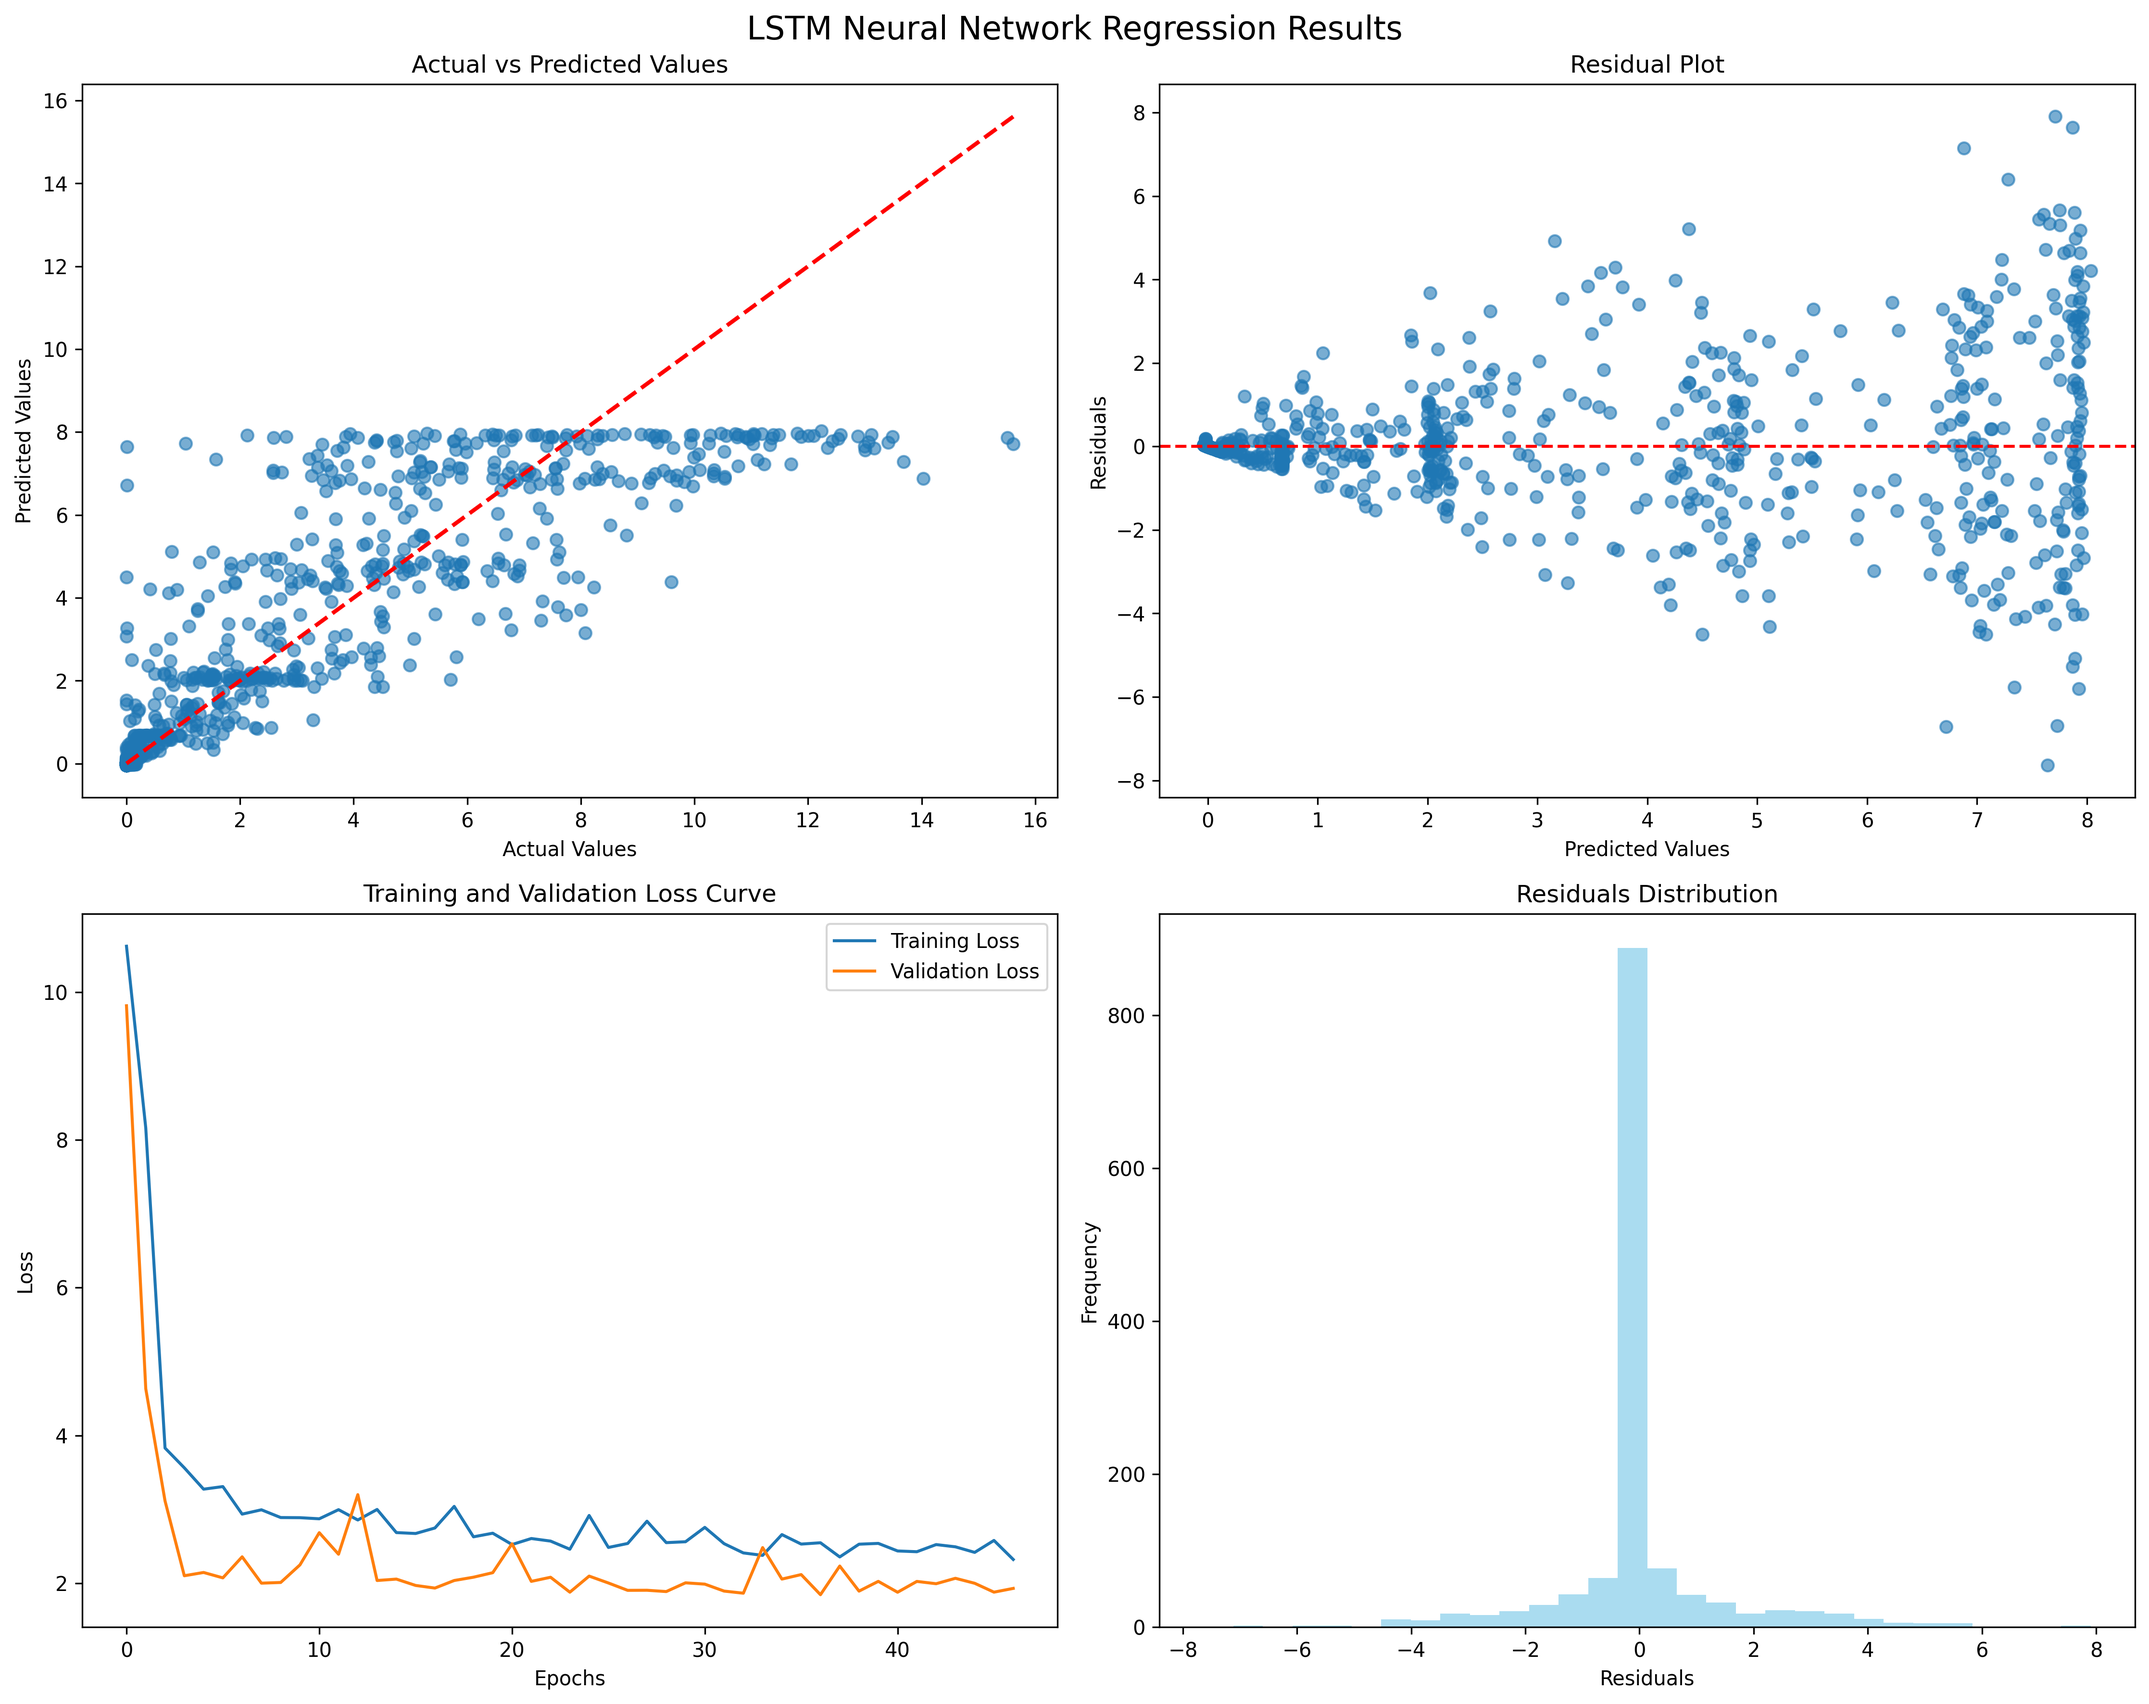
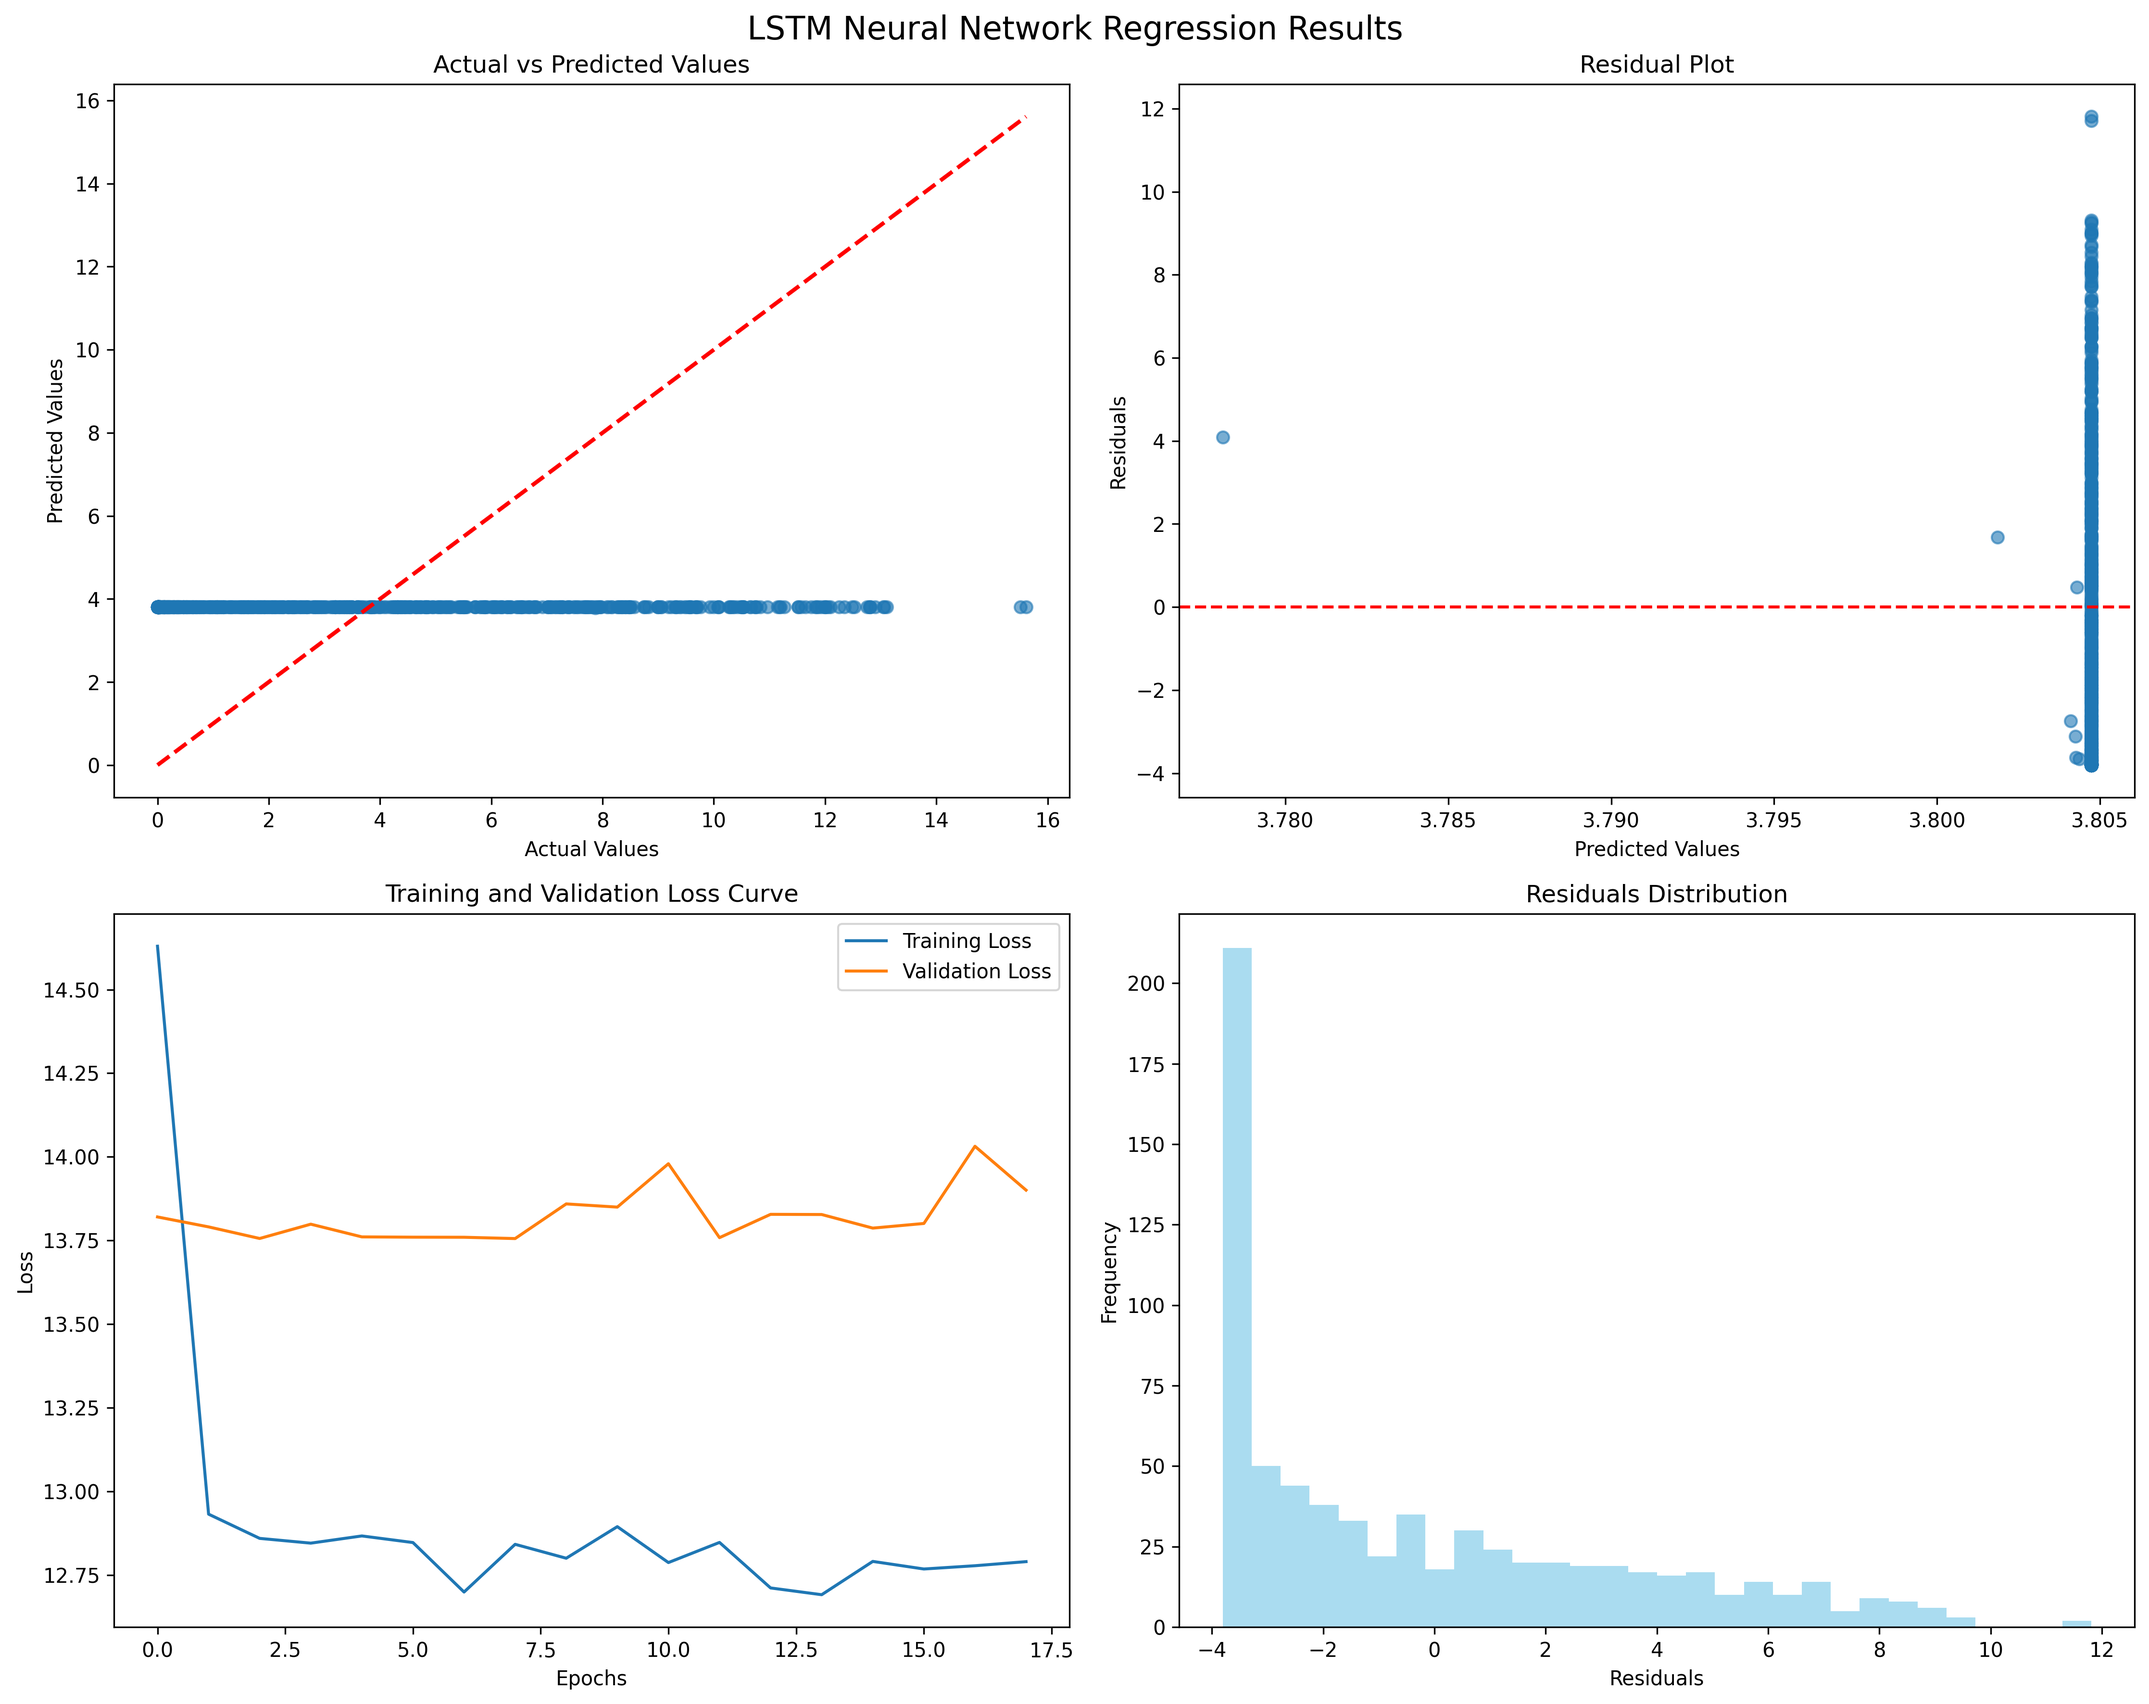
minor fixes

diff --git a/compare.py b/compare.py
@@ -15,6 +15,7 @@ from models import (
   handle_datetime,
   handle_rainfall,
   handle_window,
+  handle_uv,
 )
 
 
@@ -76,8 +77,8 @@ def run_lstm_model(X_train, X_test, y_train, y_test, skip=False):
 
   print("\n=== LSTM ===")
   features = int(X_train.shape[2])
-  model = LSTMModel(features, window_size=24)
-  model.train(X_train, y_train, epochs=100)
+  model = LSTMModel(features, window_size=12)
+  model.train(X_train, y_train, epochs=50)
   model.evaluate(X_test, y_test)
   model.plot_results(X_test, y_test)
 
@@ -113,10 +114,10 @@ def main():
     "SO2UGM3",
   ]
 
-  # df = handle_datetime(df)
-  df = handle_datetime(df, date_index=True)  # for sarima
+  df = handle_datetime(df)
+  # df = handle_datetime(df, date_index=True)  # for sarima
   df = handle_rainfall(df)
-  # df = handle_uv(df)  # remove where uv_index is 0
+  df = handle_uv(df)  # remove where uv_index is 0
 
   print("\n=== Data engineering dataset ===")
   print(df.head())
@@ -124,14 +125,10 @@ def main():
   X = df.drop(columns=[target_column], axis=1)
   y = df[target_column]
 
-  # X_train, X_test, y_train, y_test = train_test_split(X, y, test_size=0.2, random_state=28)
-  
+  X_train, X_test, y_train, y_test = train_test_split(X, y, test_size=0.2, random_state=28)
+
   fit_scaler(X[numerical_features])
   X[numerical_features] = transform_scaler(X[numerical_features])
-
-  X_series = handle_window(X, window_size=24) # only for ltsm
-  y_series = handle_window(df, window_size=24, target_col=target_column) # only for ltsm
-  X_train, X_test, y_train, y_test = train_test_split(X_series, y_series, test_size=0.2, random_state=28)
 
   y_series = handle_window(y)  # for dbscan
   y_series_scaled = StandardScaler().fit_transform(y_series)  # for dbscan
@@ -143,6 +140,12 @@ def main():
   # Predictive models
   run_random_forest_model(X_train, X_test, y_train, y_test, skip=True)
   run_svm_model(X_train, X_test, y_train, y_test, skip=True)
+  run_mlp_model(X_train, X_test, y_train, y_test, skip=True)
+
+  X_series = handle_window(X, window_size=12)  # only for ltsm
+  y_series = handle_window(df, window_size=12, target_col=target_column)  # only for ltsm
+  X_train, X_test, y_train, y_test = train_test_split(X_series, y_series, test_size=0.2, random_state=28)
+
   run_lstm_model(
     X_train,
     X_test,
@@ -150,7 +153,6 @@ def main():
     y_test,
     skip=False,
   )
-  run_mlp_model(X_train, X_test, y_train, y_test, skip=True)
 
 
 if __name__ == "__main__":

diff --git a/models/sarima_model.py b/models/sarima_model.py
@@ -38,7 +38,7 @@ class SARIMAModel:
   def predict(self, X: list[float]):
     try:
       loaded_model = joblib.load(self.model_path)
-      prediction = loaded_model.get_forecast(steps=len(y), exog=X)
+      prediction = loaded_model.get_forecast(steps=len(X), exog=X)
       return prediction.predicted_mean
     except Exception as e:
       print(f"Error loading model: {e}")
